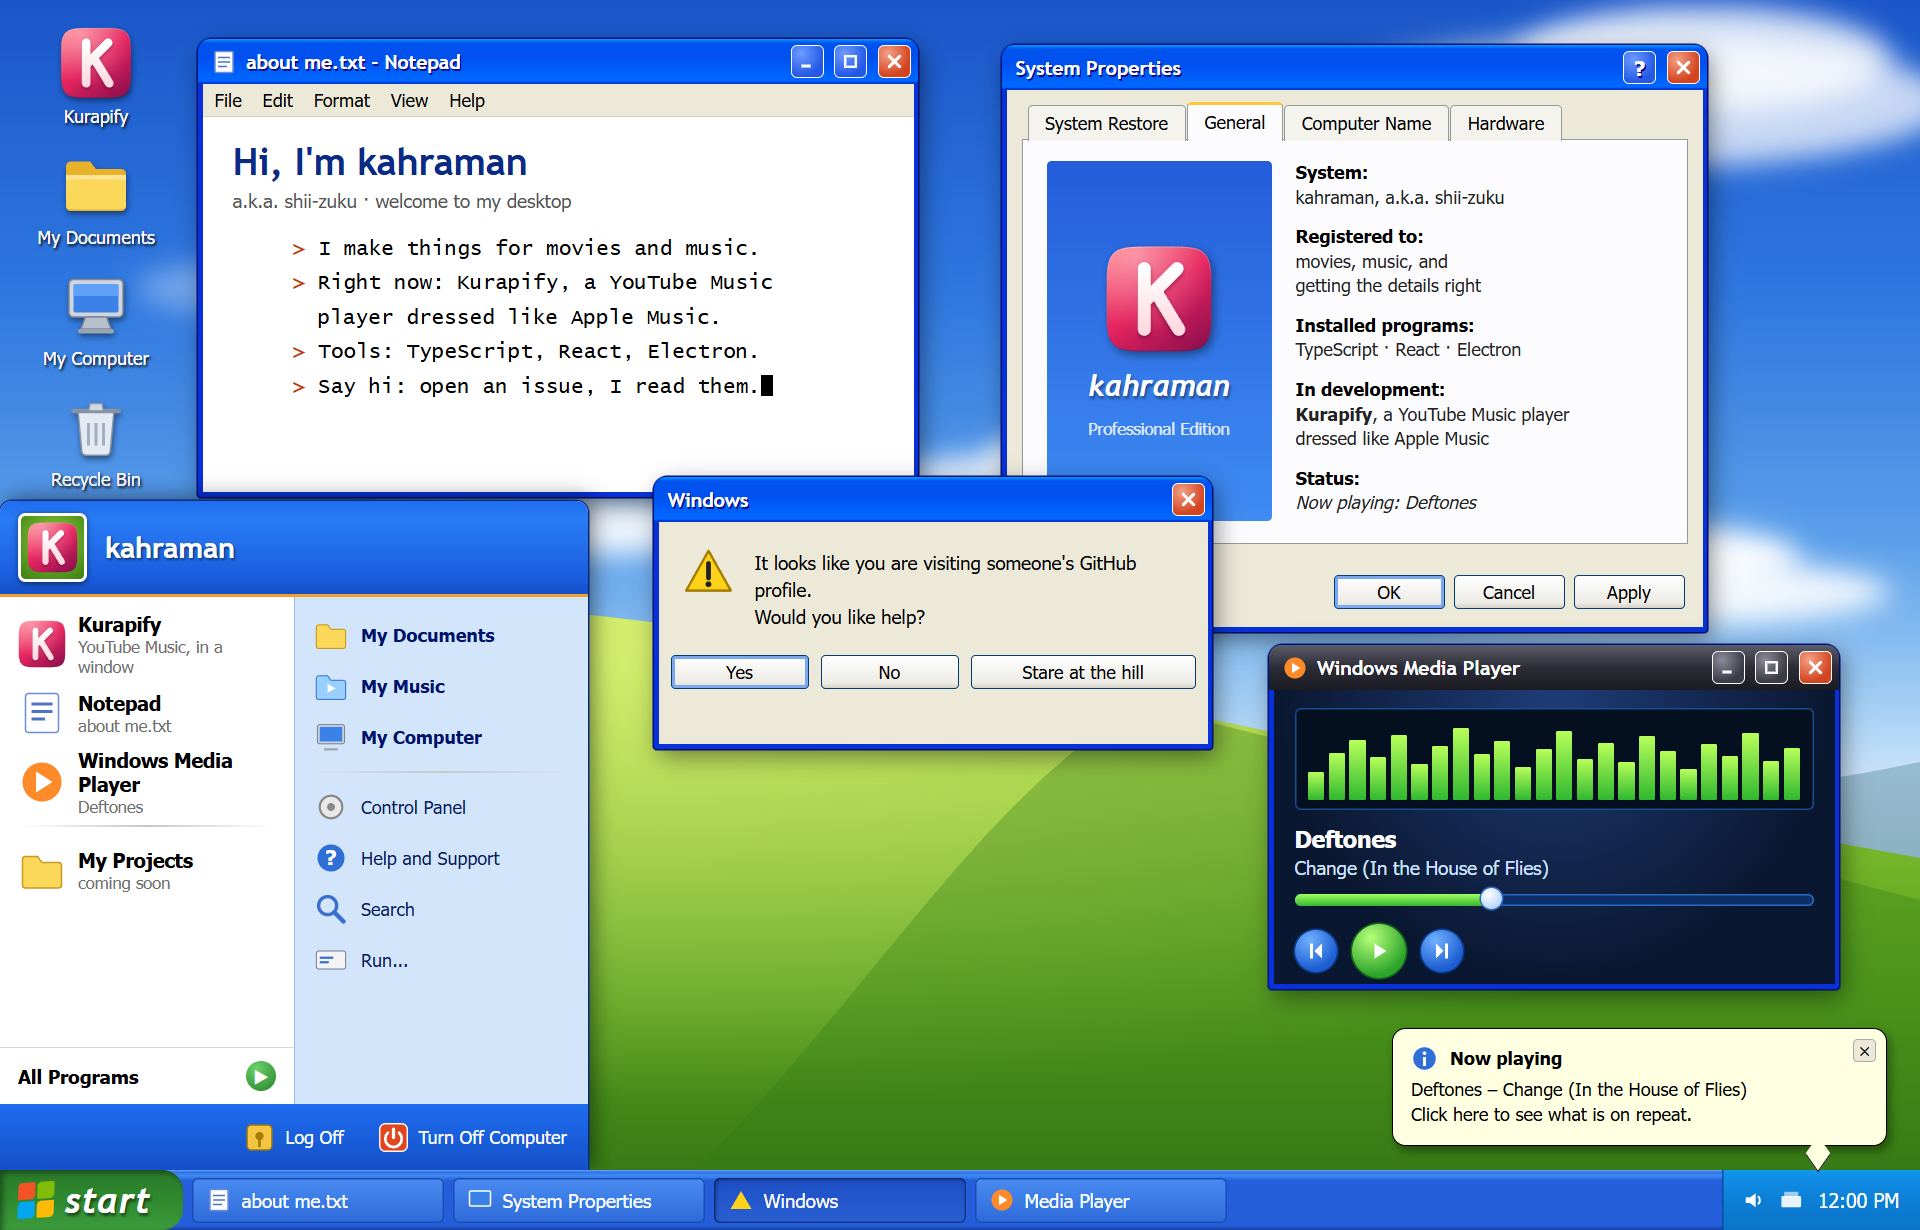
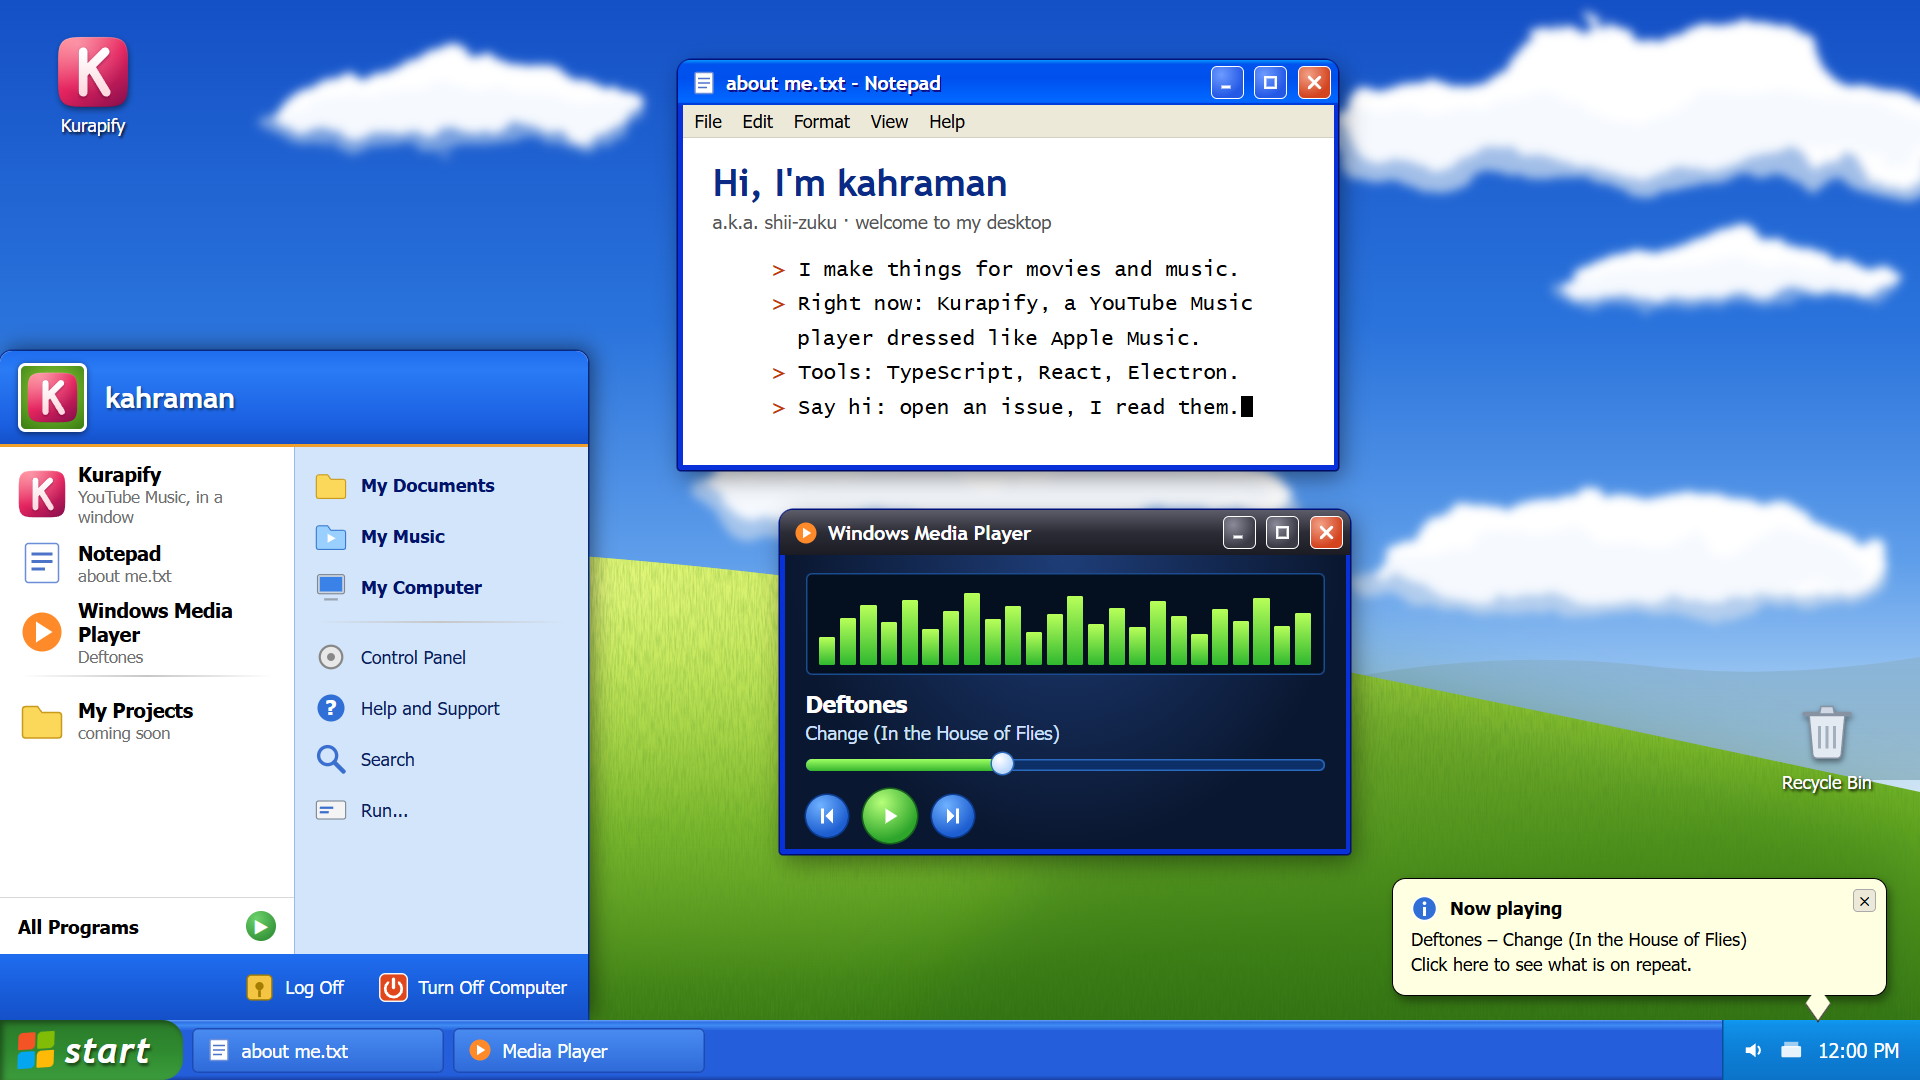
A real XP layout: Bliss-style sky and hill, the open Start menu, two windows, a tray balloon

diff --git a/assets/xp.html b/assets/xp.html
@@ -5,8 +5,9 @@
 <meta charset="utf-8" />
 <style>
   * { box-sizing: border-box; margin: 0; }
-  html, body { width: 1280px; height: 820px; background: transparent; overflow: hidden; font-family: Tahoma, 'Segoe UI', Verdana, sans-serif; color: #000; }
-  .desk { position: relative; width: 1280px; height: 820px; overflow: hidden; background: linear-gradient(#1a56c9 0%, #2f78e0 24%, #5b9fea 44%, #9ccaf3 56%, #cfe6fa 64%); }
+  html, body { width: 1280px; height: 720px; background: transparent; overflow: hidden; font-family: Tahoma, 'Segoe UI', Verdana, sans-serif; color: #000; }
+  .desk { position: relative; width: 1280px; height: 720px; overflow: hidden; background: #3a82e0 none; }
+  .scene { position: absolute; left: 0; top: 0; }
   .cloud { position: absolute; border-radius: 50%; background: #fff; filter: blur(9px); }
   .land { position: absolute; left: 0; top: 0; width: 1280px; height: 820px; }
 
@@ -30,8 +31,8 @@
   .face { background: #ece9d8; }
 
   /* Notepad */
-  .notepad { left: 132px; top: 26px; width: 480px; }
-  .notepad .body { padding: 16px 20px 18px; height: 250px; font: 14px/1.5 'Lucida Console', Consolas, monospace; }
+  .notepad { left: 452px; top: 40px; width: 440px; }
+  .notepad .body { padding: 16px 20px 18px; height: 218px; font: 14px/1.5 'Lucida Console', Consolas, monospace; }
   .notepad h1 { font: bold 25px/1.1 'Trebuchet MS', Tahoma, sans-serif; color: #0b2a85; margin-bottom: 3px; }
   .notepad .sub { color: #555; margin-bottom: 12px; font-family: Tahoma, sans-serif; font-size: 12.5px; }
   .notepad li { list-style: none; margin: 2px 0; }
@@ -64,7 +65,7 @@
   .dialog .push { min-width: 92px; }
 
   /* Windows Media Player */
-  .wmp { left: 846px; top: 430px; width: 380px; }
+  .wmp { left: 520px; top: 340px; width: 380px; }
   .wmp .title { background: linear-gradient(#5d5d6a, #2c2c36 50%, #1b1b24); text-shadow: none; }
   .wmp .btn { background: radial-gradient(circle at 30% 25%, #8a8a99, #3b3b46 70%); }
   .wmp .btn.x { background: radial-gradient(circle at 30% 25%, #f2a086, #d3441f 70%); }
@@ -127,33 +128,102 @@
 </head>
 <body>
 <div class="desk">
-  <div class="cloud" style="left: 240px; top: 330px; width: 300px; height: 40px; opacity: .9"></div>
-  <div class="cloud" style="left: 140px; top: 352px; width: 220px; height: 34px; opacity: .8"></div>
-  <div class="cloud" style="left: 560px; top: 300px; width: 380px; height: 54px; opacity: .85"></div>
-  <div class="cloud" style="left: 660px; top: 282px; width: 200px; height: 46px; opacity: .95"></div>
-  <div class="cloud" style="left: 930px; top: 372px; width: 330px; height: 46px; opacity: .9"></div>
-  <div class="cloud" style="left: 1010px; top: 350px; width: 190px; height: 44px; opacity: .95"></div>
-  <div class="cloud" style="left: 880px; top: 24px; width: 420px; height: 88px; opacity: .75"></div>
-  <div class="cloud" style="left: 1010px; top: 4px; width: 250px; height: 70px; opacity: .8"></div>
-  <div class="cloud" style="left: 90px; top: 170px; width: 260px; height: 44px; opacity: .35"></div>
-  <svg class="land" viewBox="0 0 1280 820" preserveAspectRatio="none">
+  <svg class="scene" viewBox="0 0 1280 720" width="1280" height="720">
     <defs>
-      <linearGradient id="grass" x1="0" y1="0" x2="0" y2="1"><stop offset="0" stop-color="#b3dc4a"/><stop offset=".28" stop-color="#86c230"/><stop offset=".62" stop-color="#58a01e"/><stop offset="1" stop-color="#2f6f12"/></linearGradient>
-      <radialGradient id="sun" cx=".34" cy=".1" r=".7"><stop offset="0" stop-color="#e4f57c" stop-opacity=".75"/><stop offset="1" stop-color="#e4f57c" stop-opacity="0"/></radialGradient>
-      <linearGradient id="far" x1="0" y1="0" x2="0" y2="1"><stop offset="0" stop-color="#8fb4c8"/><stop offset="1" stop-color="#6f9aa6"/></linearGradient>
+      <linearGradient id="sky" x1="0" y1="0" x2="0" y2="1">
+        <stop offset="0" stop-color="#1450c6"/><stop offset=".3" stop-color="#2a73dc"/><stop offset=".52" stop-color="#5f9eea"/><stop offset=".66" stop-color="#a6cef4"/><stop offset=".74" stop-color="#d9ebfb"/>
+      </linearGradient>
+      <linearGradient id="grass" x1="0" y1="0" x2="0" y2="1">
+        <stop offset="0" stop-color="#c2e04f"/><stop offset=".22" stop-color="#97cc34"/><stop offset=".55" stop-color="#63a821"/><stop offset="1" stop-color="#2d6c10"/>
+      </linearGradient>
+      <radialGradient id="glow" cx=".3" cy=".08" r=".75"><stop offset="0" stop-color="#f0ff8a" stop-opacity=".8"/><stop offset=".6" stop-color="#d4f060" stop-opacity=".18"/><stop offset="1" stop-color="#d4f060" stop-opacity="0"/></radialGradient>
+      <linearGradient id="far" x1="0" y1="0" x2="0" y2="1"><stop offset="0" stop-color="#88aec6"/><stop offset="1" stop-color="#6c98a6"/></linearGradient>
+      <filter id="blades" x="0" y="0" width="100%" height="100%">
+        <feTurbulence type="fractalNoise" baseFrequency=".9 .09" numOctaves="3" seed="4" result="t"/>
+        <feColorMatrix in="t" type="matrix" values="0 0 0 0 0.08  0 0 0 0 0.3  0 0 0 0 0.02  0 0 0 1.1 -0.38" result="c"/>
+        <feComposite in="c" in2="SourceGraphic" operator="in"/>
+      </filter>
+      <filter id="soft"><feGaussianBlur stdDeviation="26"/></filter>
+
+      <filter id="puff3" x="-30%" y="-40%" width="160%" height="180%">
+        <feTurbulence type="fractalNoise" baseFrequency="0.011" numOctaves="5" seed="3" result="n"/>
+        <feDisplacementMap in="SourceGraphic" in2="n" scale="64" xChannelSelector="R" yChannelSelector="G" result="d"/>
+        <feGaussianBlur in="d" stdDeviation="3.2"/>
+      </filter>
+      <filter id="puff5" x="-30%" y="-40%" width="160%" height="180%">
+        <feTurbulence type="fractalNoise" baseFrequency="0.014" numOctaves="5" seed="5" result="n"/>
+        <feDisplacementMap in="SourceGraphic" in2="n" scale="50" xChannelSelector="R" yChannelSelector="G" result="d"/>
+        <feGaussianBlur in="d" stdDeviation="3.2"/>
+      </filter>
+      <filter id="puff7" x="-30%" y="-40%" width="160%" height="180%">
+        <feTurbulence type="fractalNoise" baseFrequency="0.018" numOctaves="5" seed="7" result="n"/>
+        <feDisplacementMap in="SourceGraphic" in2="n" scale="40" xChannelSelector="R" yChannelSelector="G" result="d"/>
+        <feGaussianBlur in="d" stdDeviation="3.2"/>
+      </filter>
+      <filter id="puff9" x="-30%" y="-40%" width="160%" height="180%">
+        <feTurbulence type="fractalNoise" baseFrequency="0.02" numOctaves="5" seed="9" result="n"/>
+        <feDisplacementMap in="SourceGraphic" in2="n" scale="34" xChannelSelector="R" yChannelSelector="G" result="d"/>
+        <feGaussianBlur in="d" stdDeviation="3.2"/>
+      </filter>
     </defs>
-    <path d="M820 548 C900 520 1000 505 1090 520 C1160 532 1220 520 1280 508 L1280 640 L820 640 Z" fill="url(#far)" opacity=".85"/>
-    <path d="M0 400 C220 382 470 410 760 470 C980 515 1130 545 1280 572 L1280 820 L0 820 Z" fill="url(#grass)"/>
-    <path d="M0 400 C220 382 470 410 760 470 C980 515 1130 545 1280 572 L1280 820 L0 820 Z" fill="url(#sun)"/>
-    <path d="M760 470 C960 520 1130 560 1280 600 L1280 820 L420 820 C560 700 640 540 760 470 Z" fill="#2f7a14" opacity=".32"/>
+    <rect width="1280" height="720" fill="url(#sky)"/>
+    
+    <g transform="translate(60 360)" filter="url(#puff5)">
+      <ellipse cx="170" cy="50.4" rx="170" ry="21" fill="#c3d6ee" opacity="0.7200000000000001"/>
+      <ellipse cx="102" cy="35" rx="81.6" ry="23.8" fill="#fff"/>
+      <ellipse cx="187.00000000000003" cy="26.6" rx="102" ry="29.4" fill="#fff"/>
+      <ellipse cx="265.2" cy="39.2" rx="74.8" ry="21" fill="#fff"/>
+      <ellipse cx="170" cy="43.4" rx="156.4" ry="18.2" fill="#f6f9fe"/>
+    </g>
+    
+    <g transform="translate(880 18)" filter="url(#puff3)">
+      <ellipse cx="210" cy="79.2" rx="210" ry="33" fill="#c3d6ee" opacity="0.8"/>
+      <ellipse cx="126" cy="55" rx="100.8" ry="37.400000000000006" fill="#fff"/>
+      <ellipse cx="231.00000000000003" cy="41.8" rx="126" ry="46.199999999999996" fill="#fff"/>
+      <ellipse cx="327.6" cy="61.60000000000001" rx="92.4" ry="33" fill="#fff"/>
+      <ellipse cx="210" cy="68.2" rx="193.20000000000002" ry="28.6" fill="#f6f9fe"/>
+    </g>
+    
+    <g transform="translate(460 270)" filter="url(#puff3)">
+      <ellipse cx="200" cy="66.24" rx="200" ry="27.599999999999998" fill="#c3d6ee" opacity="0.7200000000000001"/>
+      <ellipse cx="120" cy="46" rx="96" ry="31.28" fill="#fff"/>
+      <ellipse cx="220.00000000000003" cy="34.96" rx="120" ry="38.64" fill="#fff"/>
+      <ellipse cx="312" cy="51.52" rx="88" ry="27.599999999999998" fill="#fff"/>
+      <ellipse cx="200" cy="57.04" rx="184" ry="23.92" fill="#f6f9fe"/>
+    </g>
+    
+    <g transform="translate(900 330)" filter="url(#puff7)">
+      <ellipse cx="180" cy="57.599999999999994" rx="180" ry="24" fill="#c3d6ee" opacity="0.8"/>
+      <ellipse cx="108" cy="40" rx="86.39999999999999" ry="27.200000000000003" fill="#fff"/>
+      <ellipse cx="198.00000000000003" cy="30.4" rx="108" ry="33.6" fill="#fff"/>
+      <ellipse cx="280.8" cy="44.800000000000004" rx="79.2" ry="24" fill="#fff"/>
+      <ellipse cx="180" cy="49.6" rx="165.6" ry="20.8" fill="#f6f9fe"/>
+    </g>
+    
+    <g transform="translate(170 40)" filter="url(#puff9)">
+      <ellipse cx="130" cy="40.32" rx="130" ry="16.8" fill="#c3d6ee" opacity="0.5599999999999999"/>
+      <ellipse cx="78" cy="28" rx="62.4" ry="19.040000000000003" fill="#fff"/>
+      <ellipse cx="143" cy="21.28" rx="78" ry="23.52" fill="#fff"/>
+      <ellipse cx="202.8" cy="31.360000000000003" rx="57.2" ry="16.8" fill="#fff"/>
+      <ellipse cx="130" cy="34.72" rx="119.60000000000001" ry="14.56" fill="#f6f9fe"/>
+    </g>
+    
+    <g transform="translate(1030 160)" filter="url(#puff9)">
+      <ellipse cx="115" cy="31.68" rx="115" ry="13.2" fill="#c3d6ee" opacity="0.48"/>
+      <ellipse cx="69" cy="22" rx="55.199999999999996" ry="14.96" fill="#fff"/>
+      <ellipse cx="126.50000000000001" cy="16.72" rx="69" ry="18.48" fill="#fff"/>
+      <ellipse cx="179.4" cy="24.64" rx="50.6" ry="13.2" fill="#fff"/>
+      <ellipse cx="115" cy="27.28" rx="105.80000000000001" ry="11.440000000000001" fill="#f6f9fe"/>
+    </g>
+    <path d="M900 452 C960 440 1030 436 1100 444 C1170 452 1230 446 1280 438 L1280 520 L900 520 Z" fill="url(#far)" opacity=".55"/>
+    <path id="hill" d="M0 368 C230 350 520 372 800 428 C1010 470 1150 500 1280 528 L1280 720 L0 720 Z" fill="url(#grass)"/>
+    <path d="M0 368 C230 350 520 372 800 428 C1010 470 1150 500 1280 528 L1280 720 L0 720 Z" fill="url(#glow)"/>
+    <path d="M0 368 C230 350 520 372 800 428 C1010 470 1150 500 1280 528 L1280 720 L0 720 Z" fill="#fff" filter="url(#blades)" opacity=".5"/>
+    <path d="M820 430 C1000 478 1150 512 1280 560 L1280 720 L560 720 C700 600 740 470 820 430 Z" fill="#1f5c0c" opacity=".3" filter="url(#soft)"/>
   </svg>
 
-  <div class="icons">
-    <div class="icon"><span class="pic"><img src="./kurapify.svg" alt="" /></span>Kurapify</div>
-    <div class="icon"><span class="pic"><svg viewBox="0 0 48 48"><path d="M4 12a3 3 0 0 1 3-3h13l4 5h17a3 3 0 0 1 3 3v22a3 3 0 0 1-3 3H7a3 3 0 0 1-3-3z" fill="#e8b22a"/><path d="M4 18h40v20a3 3 0 0 1-3 3H7a3 3 0 0 1-3-3z" fill="#fbd75a"/><path d="M4 18h40v3H4z" fill="#fff" opacity=".35"/></svg></span>My Documents</div>
-    <div class="icon"><span class="pic"><svg viewBox="0 0 48 48"><rect x="6" y="7" width="36" height="25" rx="3" fill="#cfd6df" stroke="#7d8896"/><rect x="9" y="10" width="30" height="19" rx="1.5" fill="#3a82e8"/><path d="M9 10h30v8H9z" fill="#78b2ff" opacity=".6"/><path d="M17 32h14l3 8H14z" fill="#b8c0cb" stroke="#7d8896"/><rect x="12" y="40" width="24" height="3" rx="1.5" fill="#9aa5b3"/></svg></span>My Computer</div>
-    <div class="icon"><span class="pic"><svg viewBox="0 0 48 48"><path d="M12 14h24l-2.5 27a3 3 0 0 1-3 2.5h-13a3 3 0 0 1-3-2.5z" fill="#e4eaf2" stroke="#8793a3"/><path d="M9 14h30" stroke="#8793a3" stroke-width="3" stroke-linecap="round"/><path d="M20 9h8l1 5H19z" fill="#cfd8e4" stroke="#8793a3"/><path d="M19 22v15M24 22v15M29 22v15" stroke="#a3afbf" stroke-width="2"/></svg></span>Recycle Bin</div>
-  </div>
+  <div class="icon" style="position:absolute; right: 20px; top: 462px"><span class="pic"><svg viewBox="0 0 48 48"><path d="M12 14h24l-2.5 27a3 3 0 0 1-3 2.5h-13a3 3 0 0 1-3-2.5z" fill="#e4eaf2" stroke="#8793a3"/><path d="M9 14h30" stroke="#8793a3" stroke-width="3" stroke-linecap="round"/><path d="M20 9h8l1 5H19z" fill="#cfd8e4" stroke="#8793a3"/><path d="M19 22v15M24 22v15M29 22v15" stroke="#a3afbf" stroke-width="2"/></svg></span>Recycle Bin</div>
+  <div class="icon" style="position:absolute; left: 20px; top: 24px"><span class="pic"><img src="./kurapify.svg" alt="" /></span>Kurapify</div>
 
   <!-- about me.txt -->
   <div class="win notepad">
@@ -175,42 +245,6 @@
         <li><b>&gt;</b> Tools: TypeScript, React, Electron.</li>
         <li><b>&gt;</b> Say hi: open an issue, I read them.<span class="caret"></span></li>
       </ul>
-    </div>
-  </div>
-
-  <!-- System Properties -->
-  <div class="win props">
-    <div class="title">
-      <span class="name">System Properties</span>
-      <span class="btn help">?</span>
-      <span class="btn x"><svg viewBox="0 0 10 10"><path d="M1.5 1.5l7 7M8.5 1.5l-7 7" stroke="#fff" stroke-width="2" stroke-linecap="round"/></svg></span>
-    </div>
-    <div class="face">
-      <div class="tabs"><span class="tab">System Restore</span><span class="tab on">General</span><span class="tab">Computer Name</span><span class="tab">Hardware</span></div>
-      <div class="sheet">
-        <div class="logo"><img src="./kurapify.svg" alt="" /><b>kahraman</b><span style="font-size:11px;opacity:.85">Professional Edition</span></div>
-        <div><h3>System:</h3><p>kahraman, a.k.a. shii-zuku</p></div>
-        <div><h3>Registered to:</h3><p>movies, music, and<br/>getting the details right</p></div>
-        <div><h3>Installed programs:</h3><p>TypeScript &middot; React &middot; Electron</p></div>
-        <div><h3>In development:</h3><p><b>Kurapify</b>, a YouTube Music player<br/>dressed like Apple Music</p></div>
-        <div><h3>Status:</h3><p><i>Now playing: Deftones</i></p></div>
-      </div>
-      <div class="actions"><span class="push def">OK</span><span class="push">Cancel</span><span class="push">Apply</span></div>
-    </div>
-  </div>
-
-  <!-- the dialog -->
-  <div class="win dialog">
-    <div class="title">
-      <span class="name">Windows</span>
-      <span class="btn x"><svg viewBox="0 0 10 10"><path d="M1.5 1.5l7 7M8.5 1.5l-7 7" stroke="#fff" stroke-width="2" stroke-linecap="round"/></svg></span>
-    </div>
-    <div class="face">
-      <div class="row">
-        <svg class="warn" viewBox="0 0 32 32"><path d="M16 3l14 25H2z" fill="#ffd21a" stroke="#a37c00" stroke-width="1.5" stroke-linejoin="round"/><path d="M16 11v9" stroke="#222" stroke-width="3" stroke-linecap="round"/><circle cx="16" cy="24" r="1.8" fill="#222"/></svg>
-        <p>It looks like you are visiting someone's GitHub profile.<br/>Would you like help?</p>
-      </div>
-      <div class="buttons"><span class="push def">Yes</span><span class="push">No</span><span class="push" style="min-width:150px">Stare at the hill</span></div>
     </div>
   </div>
 
@@ -277,8 +311,6 @@
       start
     </div>
     <div class="tb"><svg viewBox="0 0 16 16"><rect x="2" y="1" width="12" height="14" rx="1" fill="#fff" stroke="#6c8ed8"/><path d="M4 5h8M4 8h8M4 11h6" stroke="#4d73c8"/></svg>about me.txt</div>
-    <div class="tb"><svg viewBox="0 0 16 16"><rect x="1" y="2" width="14" height="10" rx="1" fill="#3a82e8" stroke="#fff"/></svg>System Properties</div>
-    <div class="tb on"><svg viewBox="0 0 16 16"><path d="M8 2l7 12H1z" fill="#ffd21a"/></svg>Windows</div>
     <div class="tb"><svg viewBox="0 0 16 16"><circle cx="8" cy="8" r="7" fill="#ff8a2a"/><path d="M6 4.5v7l5.5-3.5z" fill="#fff"/></svg>Media Player</div>
     <div class="tray">
       <svg viewBox="0 0 16 16"><path d="M2 6h3l4-3v10L5 10H2z" fill="#fff"/><path d="M11 5.5a4 4 0 0 1 0 5" stroke="#fff" fill="none" stroke-width="1.4" stroke-linecap="round"/></svg>
